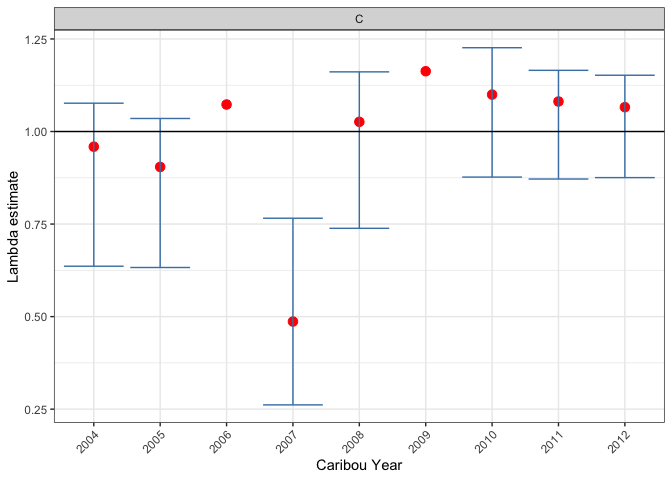
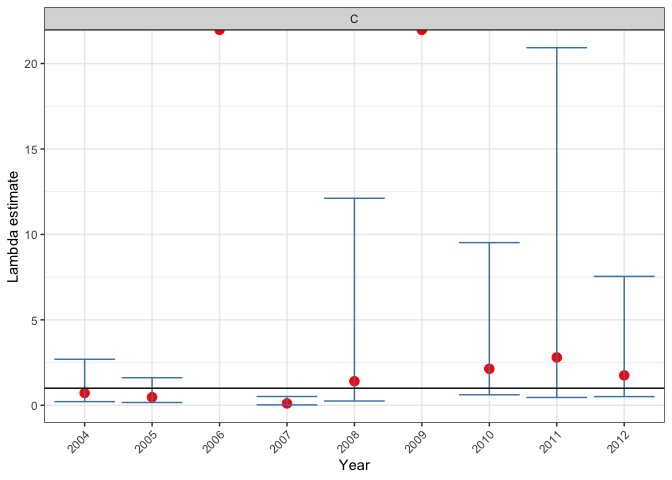
knit

diff --git a/README.md b/README.md
@@ -87,17 +87,17 @@ growth_est <- bbr_growth(survival_est, recruitment_est)
 summary <- bbr_growth_summarize(growth_est)
 summary
 #> # A tibble: 9 × 13
-#>   PopulationName CaribouYear     S     R estimate     se  lower  upper prop_lgt1
-#>   <chr>                <int> <dbl> <dbl>    <dbl>  <dbl>  <dbl>  <dbl>     <dbl>
-#> 1 C                     2004 0.867 0.096    0.959  0.115  0.636  1.08      0.323
-#> 2 C                     2005 0.832 0.08     0.904  0.105  0.633  1.03      0.093
-#> 3 C                     2006 1     0.068    1.07  NA     NA     NA        NA    
-#> 4 C                     2007 0.458 0.059    0.487  0.128  0.262  0.766     0    
-#> 5 C                     2008 0.941 0.083    1.03   0.1    0.739  1.16      0.615
-#> 6 C                     2009 1     0.14     1.16  NA     NA     NA        NA    
-#> 7 C                     2010 0.926 0.158    1.1    0.085  0.877  1.23      0.854
-#> 8 C                     2011 0.96  0.112    1.08   0.075  0.872  1.16      0.861
-#> 9 C                     2012 0.924 0.133    1.07   0.072  0.875  1.15      0.808
+#>   PopulationName  Year     S     R estimate     se  lower  upper prop_lgt1
+#>   <chr>          <int> <dbl> <dbl>    <dbl>  <dbl>  <dbl>  <dbl>     <dbl>
+#> 1 C               2004 0.096 0.867    0.722  0.76   0.213  2.69      0.328
+#> 2 C               2005 0.08  0.832    0.476  0.381  0.164  1.61      0.111
+#> 3 C               2006 0.068 1      Inf     NA     NA     NA        NA    
+#> 4 C               2007 0.059 0.458    0.109  0.128  0.024  0.514     0.001
+#> 5 C               2008 0.083 0.941    1.41   3.23   0.249 12.1       0.637
+#> 6 C               2009 0.14  1      Inf     NA     NA     NA        NA    
+#> 7 C               2010 0.158 0.926    2.13   2.37   0.615  9.52      0.868
+#> 8 C               2011 0.112 0.96     2.8    6.18   0.458 20.9       0.863
+#> 9 C               2012 0.133 0.924    1.75   1.9    0.507  7.54      0.793
 #> # ℹ 4 more variables: mean_sim_survival <dbl>, mean_sim_recruitment <dbl>,
 #> #   mean_sim_growth <dbl>, median_sim_growth <dbl>
 bbr_plot_growth(growth_est)
